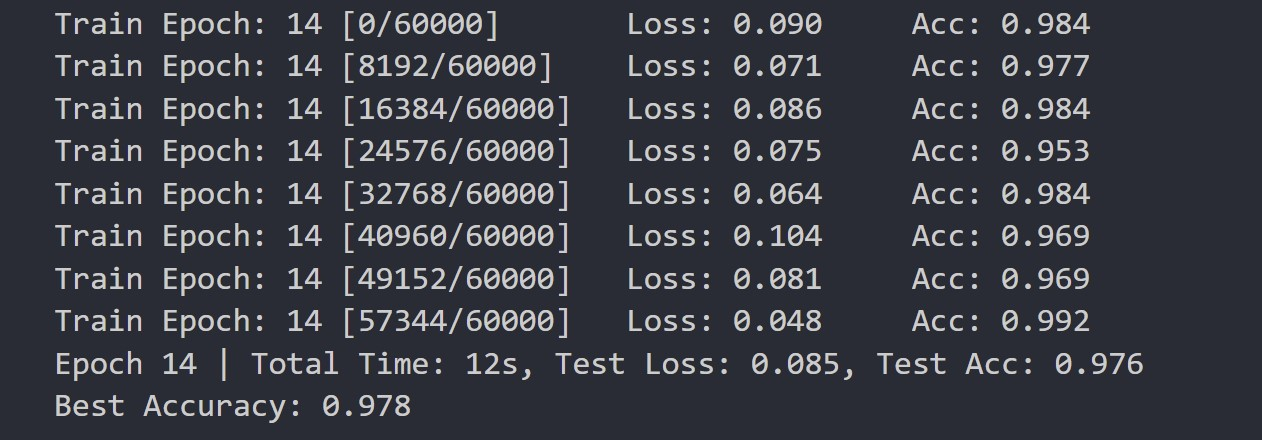
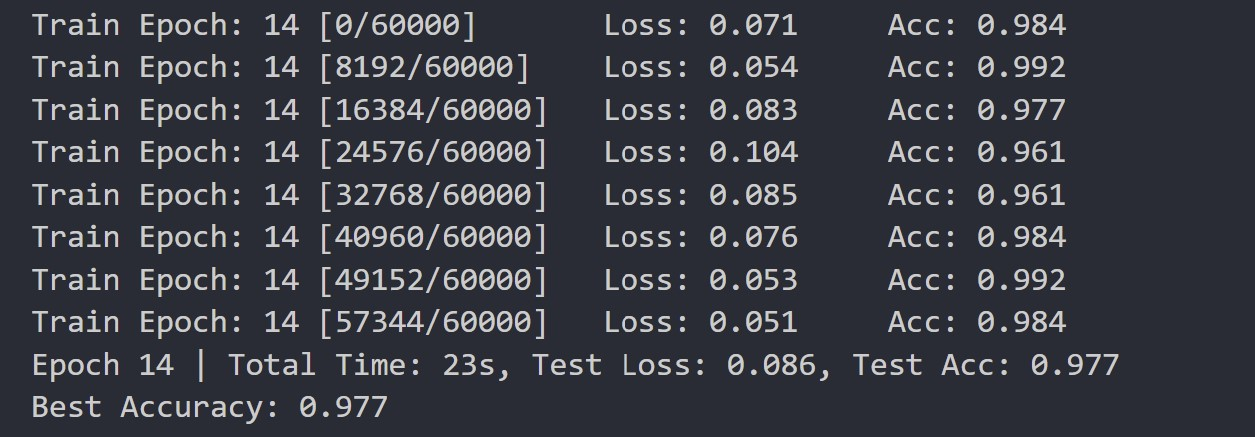
update report
step1 bce

diff --git a/Hw1/hw1_report.md b/Hw1/hw1_report.md
@@ -26,14 +26,14 @@
 | best_acc | 0.0 | best accuracy |
 
 ### 使用MSELoss损失函数
-当使用MSELoss损失函数时，最后一次迭代结果如下图所示：
+当使用MSELoss损失函数时，最后一轮迭代结果如下图所示：
 
 ![](result/step1_mse_1.jpg)
 
 最后一次迭代中测试集损失为0.019，准确率为97.8%，最终模型的最佳准确率为97.8%.
 
 绘制训练集和测试集上的损失和准确率曲线（为避免曲线噪声过大，对于训练集，
-取一个批次内最后的损失和准确率，下同），曲线如下图所示：
+取一个批次内的平均损失和准确率，下同），曲线如下图所示：
 
 ![](result/step1_mse_2.jpg)
 
@@ -44,7 +44,7 @@
 
 ![](result/step1_bce_1.jpg)
 
-最后一次迭代中测试集损失为0.019，准确率为97.8%，最终模型的最佳准确率为97.8%.
+最后一次迭代中测试集损失为0.086，准确率为97.7%，最终模型的最佳准确率为97.7%.
 
 绘制训练集和测试集上的损失和准确率曲线如下图所示：
 
@@ -54,9 +54,9 @@
 
 
 ### 训练结果对比
-对比使用MSELoss和BCELoss损失函数时的训练结果，二者结果一致，最佳准确率均为97.8%，具有较好的训练效果。
+对比使用MSELoss和BCELoss损失函数时的训练结果，二者最佳准确率相一致，具有较好的训练效果。
 
-通过观察测试集的损失和准确率曲线，发现该模型在前几次迭代便已获得较低的损失和较高的准确率，收敛效果良好，说明这组超参数选择是合理的。
+通过观察损失和准确率曲线，发现该模型在前几次迭代便已获得较低的损失和较高的准确率。随着迭代轮数的增加，训练集和测试集的损失递减，准确率递增，且递增/递减的速率减小，收敛效果良好，说明这组超参数选择是合理的。
 
 ## Step 2: MLP Classification
 使用自定义的TwoLayerNet模型（即具有一个隐层的MLP）完成随机梯度下降优化的多层感知机分类任务。对MLP模型分别使用CrossEntropyLoss和MSELoss损失函数进行训练。两次训练隐藏层均为300维，使用相同的超参数设置，如下表所示：
